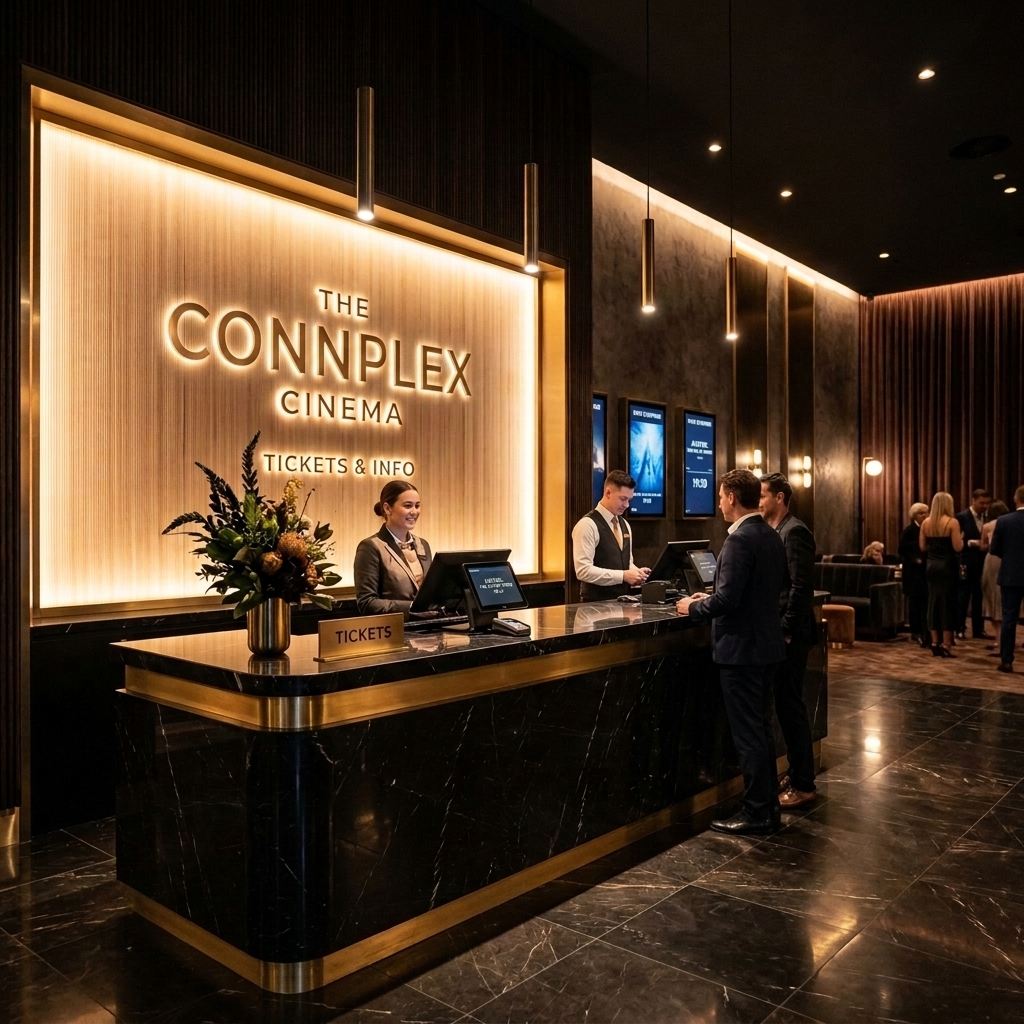
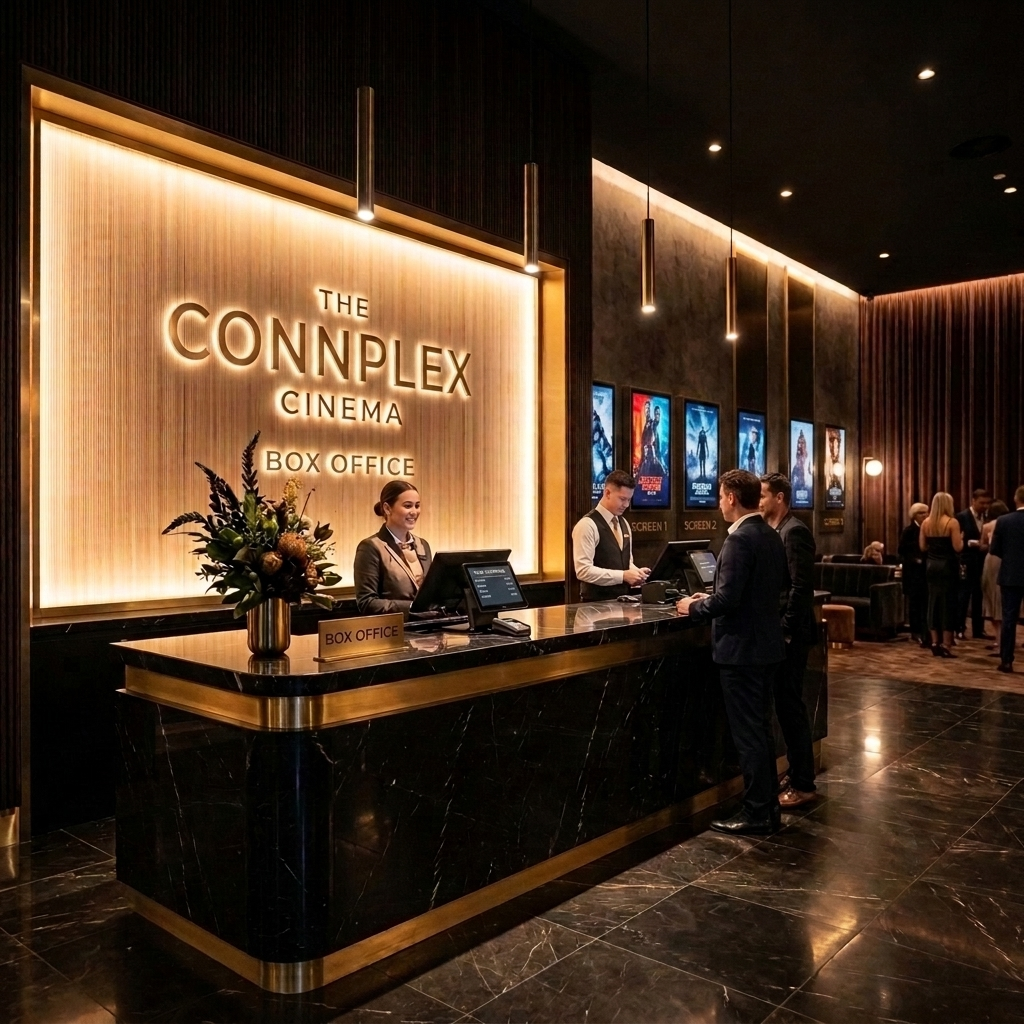
changes

diff --git a/src/components/Footer.tsx b/src/components/Footer.tsx
@@ -30,7 +30,7 @@ const Footer = () => {
                     <ul className="list-none p-0 m-0 flex flex-col gap-3">
                         <li><Link href="/feedback" className="text-[0.85rem] text-text-secondary transition-colors duration-300 hover:text-white">Feedback</Link></li>
                         <li><Link href="/capex-for-developers" className="text-[0.85rem] text-text-secondary transition-colors duration-300 hover:text-white">CAPEX for Developer</Link></li>
-                        <li><Link href="/own-a-ready-to-launch-connplex" className="text-[0.85rem] text-text-secondary transition-colors duration-300 hover:text-white">Own a Ready-to-Launch Connplex</Link></li>
+                        <li><Link href="/own-a-ready-to-launch" className="text-[0.85rem] text-text-secondary transition-colors duration-300 hover:text-white">Own a Ready-to-Launch Connplex</Link></li>
                         <li><Link href="/news" className="text-[0.85rem] text-text-secondary transition-colors duration-300 hover:text-white">News & Upcoming Promotions</Link></li>
                         <li><Link href="/book-event" className="text-[0.85rem] text-text-secondary transition-colors duration-300 hover:text-white">Book an event</Link></li>
                     </ul>
